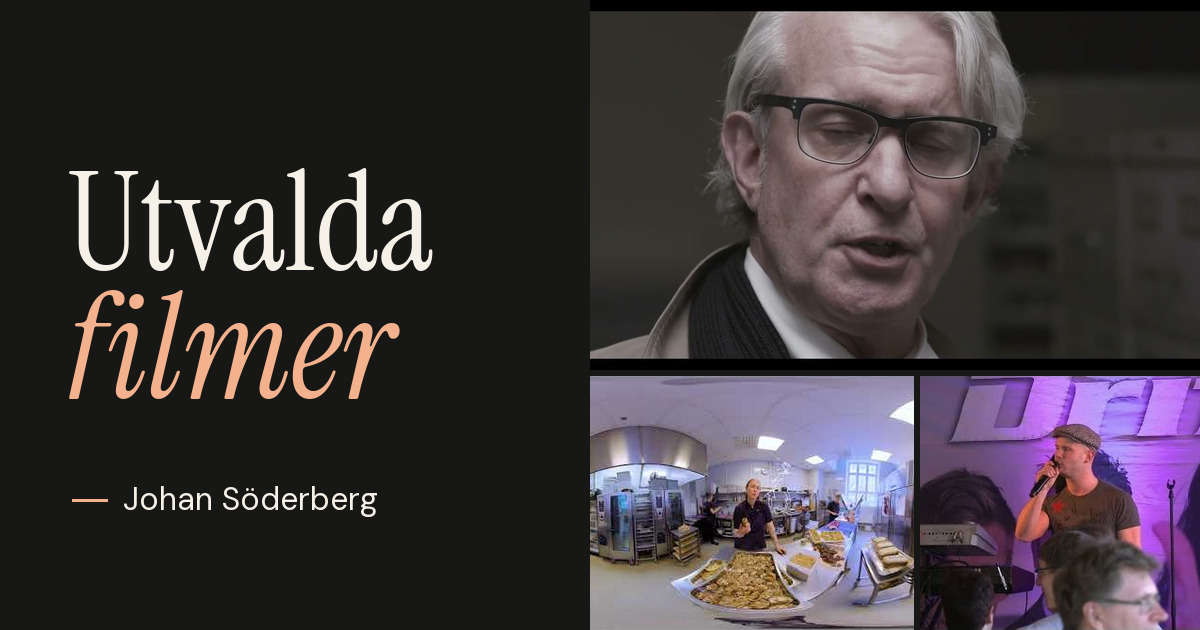
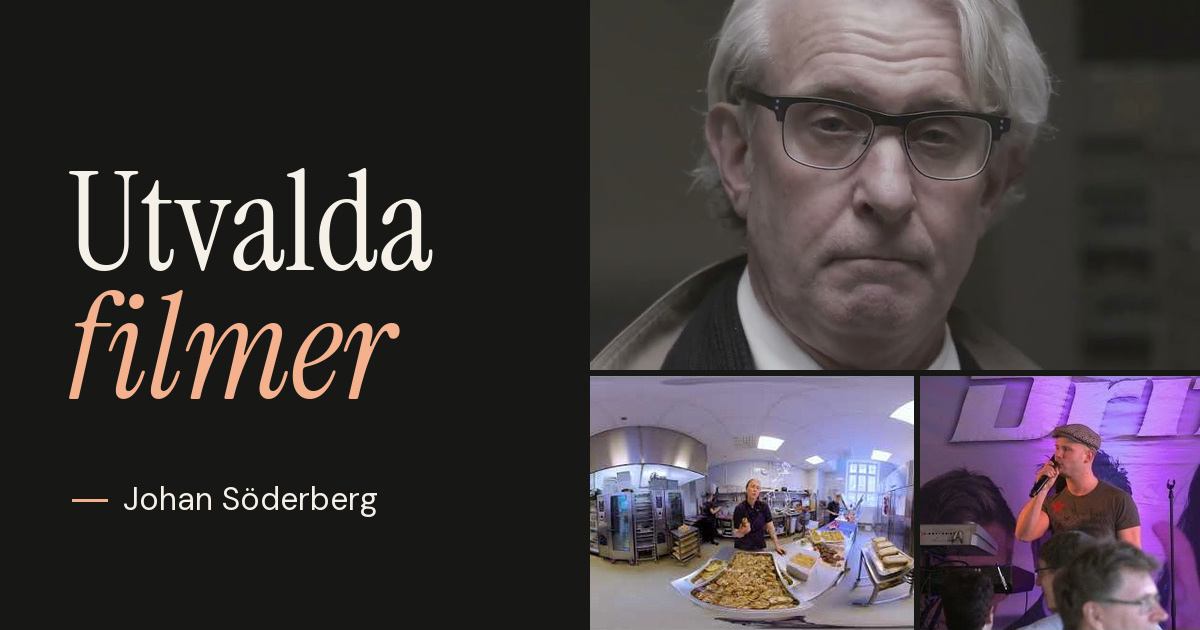
Välj en ny bildruta till Utvalda filmer

Changed region(s): [[0.4933, 0.0, 1.0, 0.6032], [0.8325, 0.4524, 0.8633, 0.4825]]

diff --git a/utvalda-filmer.html b/utvalda-filmer.html
@@ -10,7 +10,7 @@
 <meta property="og:title" content="Utvalda filmer · Johan Söderberg">
 <meta property="og:description" content="Från tv-humor och dansfilm till en rundtur i 360° på Fotografiska. Ett urval ur mitt arbete med film och tv.">
 <meta property="og:url" content="https://johannesburgh.github.io/filmportfolio/utvalda-filmer.html">
-<meta property="og:image" content="https://johannesburgh.github.io/filmportfolio/utvalda-filmer.jpg">
+<meta property="og:image" content="https://johannesburgh.github.io/filmportfolio/utvalda-filmer.jpg?v=2">
 <meta property="og:image:type" content="image/jpeg">
 <meta property="og:image:width" content="1200">
 <meta property="og:image:height" content="630">
